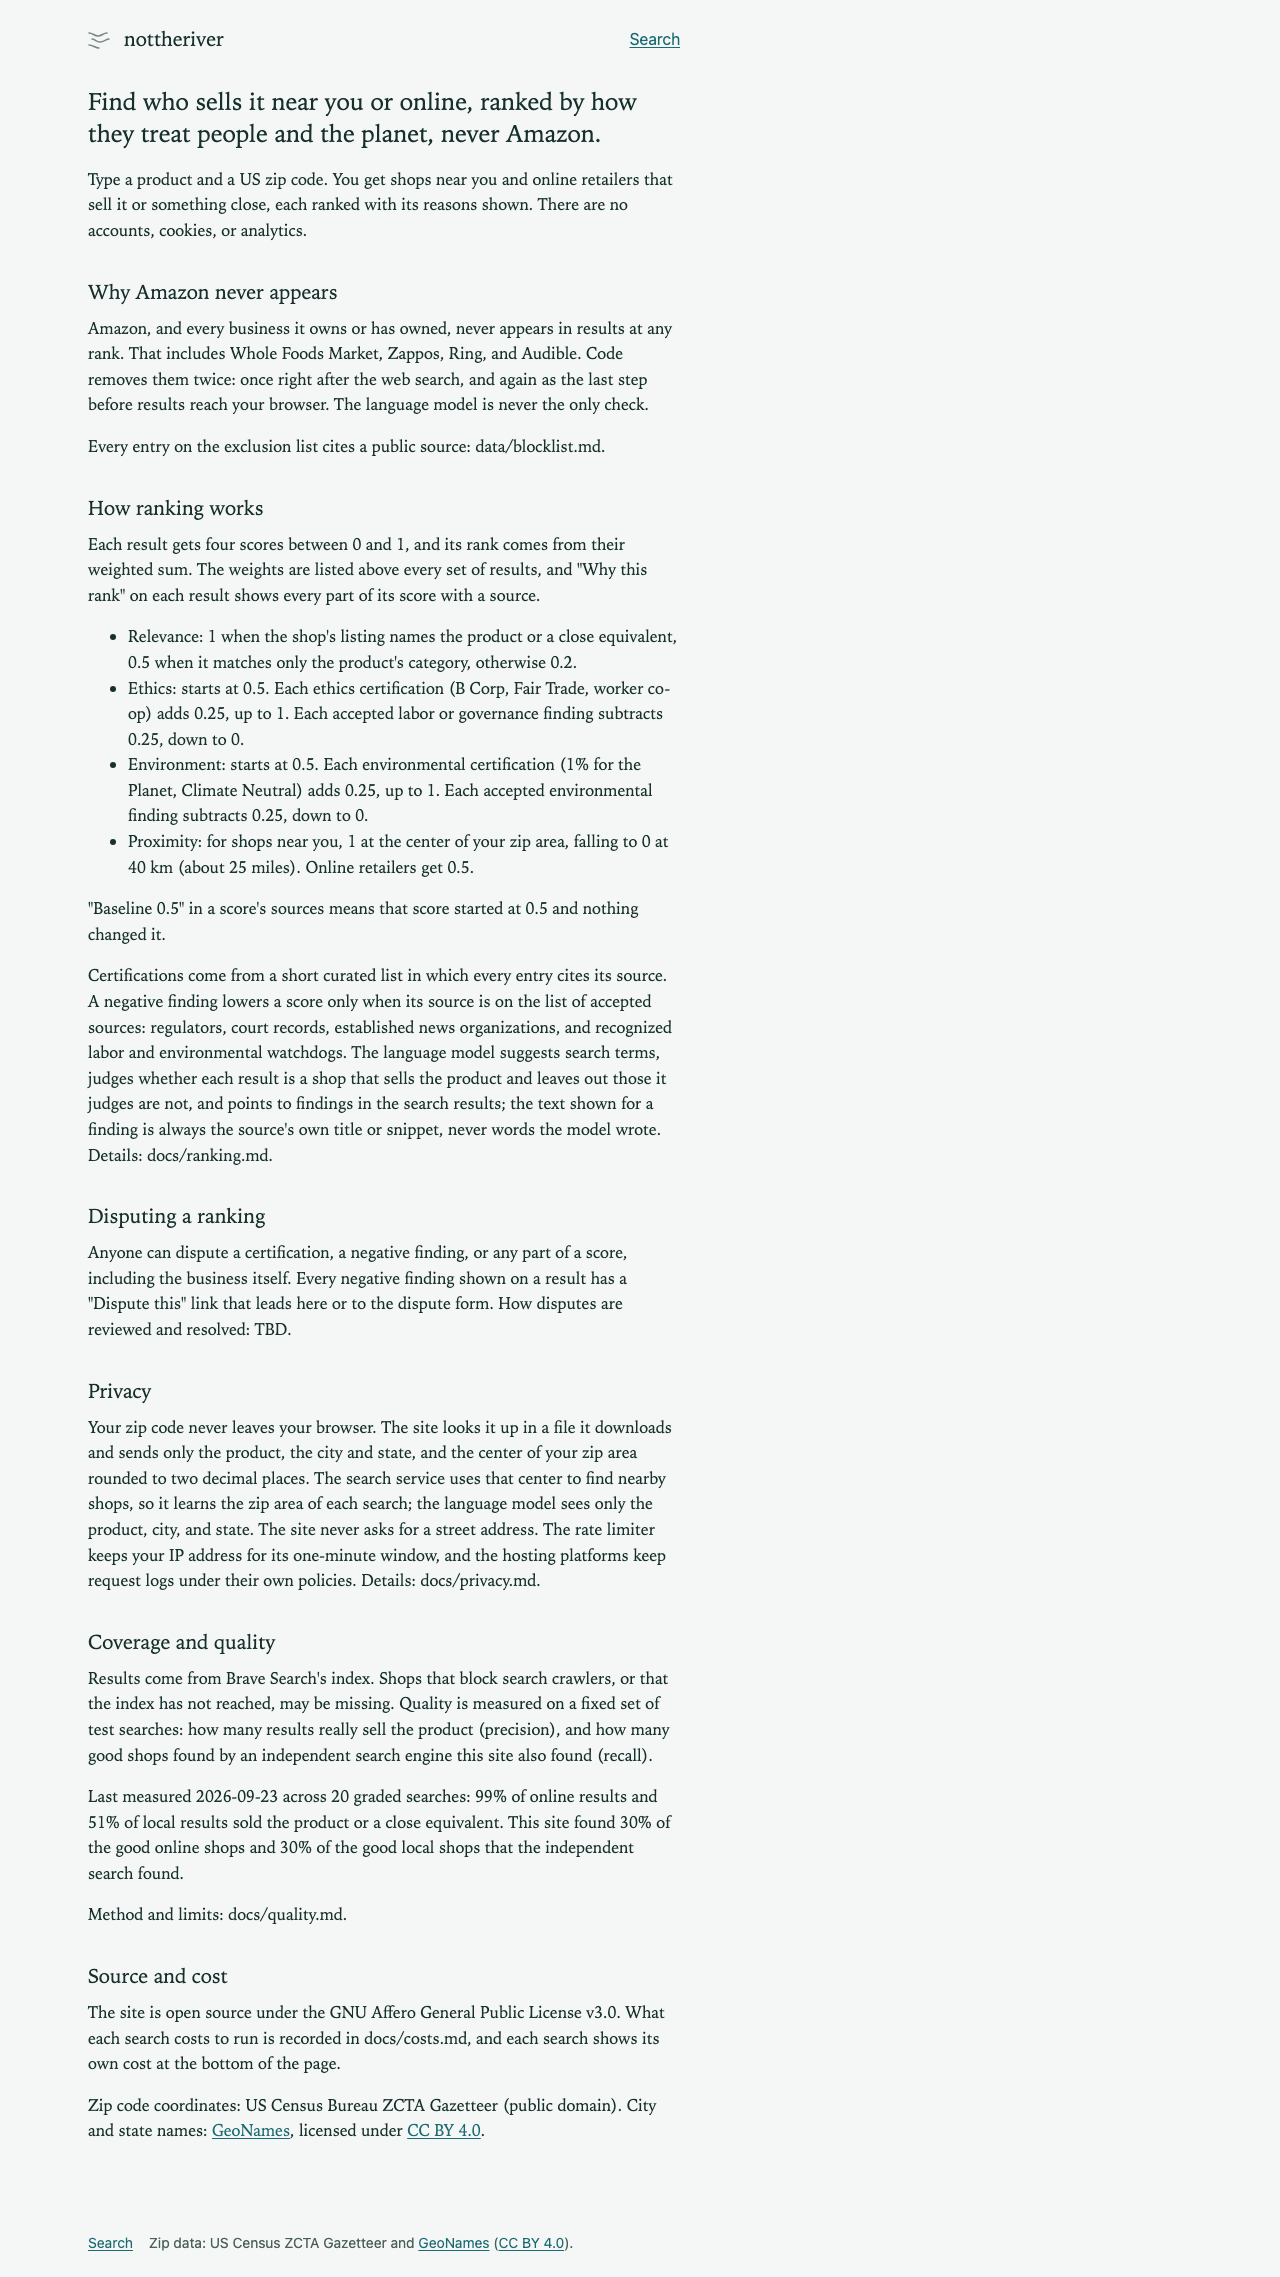
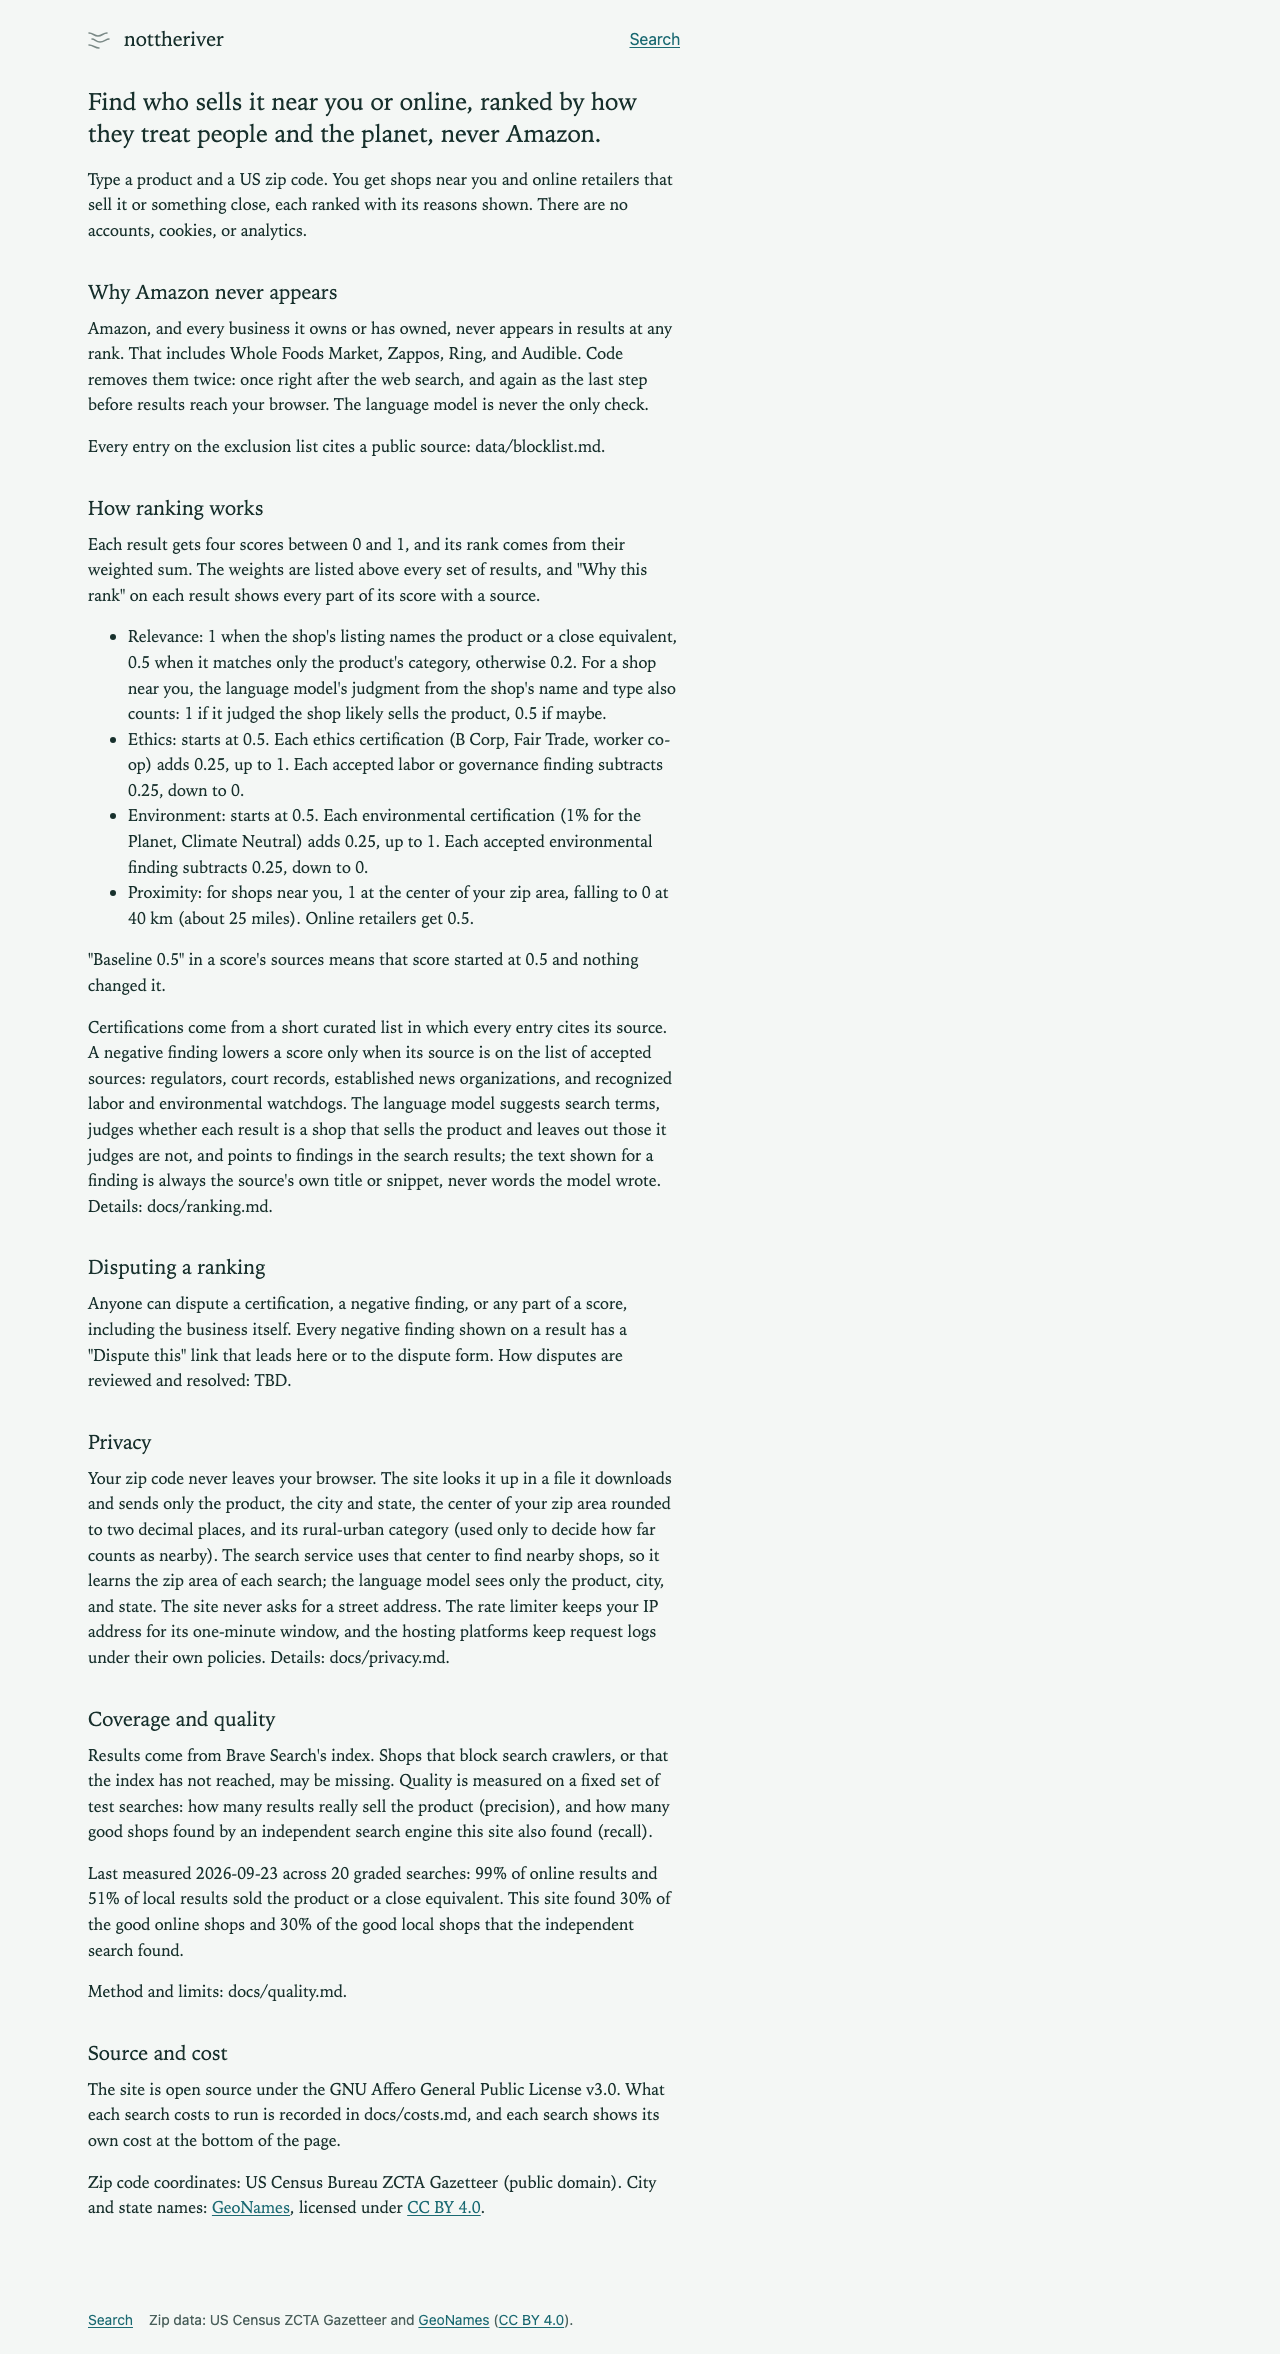
feat(ranking): rank nearby shops by the classifier's sells judgment
A place listing's text is a name and a store-type word, so local relevance
sat at 0.2 for almost every shop and ranking was nearly pure distance. A
local shop now gets relevance 1.0 when the classifier judged it sells the
product and 0.5 for maybe (the text rule still wins when higher). On the
graded searches, "yes" rows were good 80% of the time and "maybe" 40%;
re-ranking the graded nearby shops raised good shops in each top 3 from
23 to 29 and lowered bad ones from 20 to 15.

Claude-Session: https://claude.ai/code/session_01B4KcTXaMeePDhRGcdgbBh5

Changed region(s): [[0.0625, 0.0312, 0.5312, 0.9666], [0.5, 0.0, 0.5312, 0.0312]]

diff --git a/proxy/ranking/score.ts b/proxy/ranking/score.ts
@@ -1,5 +1,5 @@
 import type {
-  Candidate, CertKind, Certification, ComponentName, Normalized, ScoreComponent, Signal, SignalKind, SourceRef,
+  Candidate, CertKind, Certification, Classification, ComponentName, Normalized, ScoreComponent, SellsProduct, Signal, SignalKind, SourceRef,
 } from '../src/contract';
 import { haversineKm, type LatLon } from './geo';
 import { WEIGHTS } from './weights';
@@ -25,7 +25,21 @@ function normalizeText(s: string): string {
   return s.normalize('NFKC').toLowerCase().replace(/[^\p{L}\p{N}]+/gu, ' ').trim();
 }
 
-export function relevance(c: Candidate, n: Normalized): { value: 1 | 0.5 | 0.2; matched: string; source: SourceRef } {
+const JUDGED: Partial<Record<SellsProduct, { value: 1 | 0.5; label: string }>> = {
+  yes: { value: 1, label: 'Model judgment: likely sells it' },
+  maybe: { value: 0.5, label: 'Model judgment: may sell it' },
+};
+
+// A place listing's text is a name and a store-type word, so the text rule leaves almost every
+// local store at 0.2; the classifier's yes/maybe separates them (80% vs 40% good in graded rows).
+export function relevance(c: Candidate, n: Normalized, sells?: SellsProduct | null): { value: 1 | 0.5 | 0.2; matched: string; source: SourceRef } {
+  const text = textRelevance(c, n);
+  const judged = c.kind === 'local' && sells ? JUDGED[sells] : undefined;
+  if (!judged || judged.value <= text.value) return text;
+  return { value: judged.value, matched: '', source: { label: judged.label, url: c.url } };
+}
+
+function textRelevance(c: Candidate, n: Normalized): { value: 1 | 0.5 | 0.2; matched: string; source: SourceRef } {
   // For places the snippet is Brave's store-type word plus any categories, so local relevance rests on those and the title.
   // Checked separately so a phrase cannot straddle the end of the title and the start of the snippet.
   const fields = [normalizeText(c.title), normalizeText(c.snippet)];
@@ -103,13 +117,14 @@ export interface ScoreInput {
   normalized: Normalized;
   origin: LatLon;
   siteUrl: string; // no trailing slash
+  classification?: Classification | null; // the model's judgment; null when it did not judge
 }
 
 export function scoreCandidate(
   input: ScoreInput, weights: Readonly<Record<ComponentName, number>> = WEIGHTS,
 ): { score: number; matched_product: string; distance_km: number | null; components: ScoreComponent[] } {
   const docUrl = `${input.siteUrl}/about.html#ranking`;
-  const rel = relevance(input.candidate, input.normalized);
+  const rel = relevance(input.candidate, input.normalized, input.classification?.sells_product);
   const prox = proximity(input.candidate, input.origin, docUrl);
   const parts: [ComponentName, { value: number; sources: SourceRef[] }][] = [
     ['relevance', { value: rel.value, sources: [rel.source] }],

diff --git a/proxy/test/pipeline.test.ts b/proxy/test/pipeline.test.ts
@@ -162,6 +162,19 @@ describe('runSearch over the fixtures', () => {
     );
   });
 
+  it("ranks a nearby store the model judged to sell the product above one it only thought might", () => {
+    const store = (name: string, sells: 'yes' | 'maybe'): EnrichedRow => ({
+      ...row(candidate({ kind: 'local', name, title: name, snippet: 'shop', domain: `${name.toLowerCase()}.example`, url: `https://${name.toLowerCase()}.example/`, address: '1 Main St', lat: REQ.lat + 0.01, lon: REQ.lon, place_id: name })),
+      classification: { site_type: 'retailer', sells_product: sells },
+    });
+    // The "maybe" store is closer, so without the judgment it would rank first.
+    const maybe = store('Maybe', 'maybe');
+    const closer = { ...maybe, candidate: { ...maybe.candidate, lat: REQ.lat } };
+    const res = finalizeResponse(scoreAll([closer, store('Yes', 'yes')], NORMALIZED, REQ, ENV.SITE_URL), NORMALIZED, REQ, NO_USAGE);
+    expect(res.local.map((r) => r.retailer.name)).toEqual(['Yes', 'Maybe']);
+    expect(res.local[0]!.components.find((c) => c.name === 'relevance')).toMatchObject({ value: 1, sources: [{ label: 'Model judgment: likely sells it' }] });
+  });
+
   describe('distance tiers', () => {
     // 1 degree of latitude is about 69 mi, so these sit roughly 5, 15, 45 and 150 mi north of REQ.
     const at = (name: string, miles: number) => row(candidate({

diff --git a/about.html b/about.html
@@ -32,7 +32,7 @@
 <h2 id="ranking">How ranking works</h2>
 <p>Each result gets four scores between 0 and 1, and its rank comes from their weighted sum. The weights are listed above every set of results, and "Why this rank" on each result shows every part of its score with a source.</p>
 <ul>
-<li>Relevance: 1 when the shop's listing names the product or a close equivalent, 0.5 when it matches only the product's category, otherwise 0.2.</li>
+<li>Relevance: 1 when the shop's listing names the product or a close equivalent, 0.5 when it matches only the product's category, otherwise 0.2. For a shop near you, the language model's judgment from the shop's name and type also counts: 1 if it judged the shop likely sells the product, 0.5 if maybe.</li>
 <li>Ethics: starts at 0.5. Each ethics certification (B Corp, Fair Trade, worker co-op) adds 0.25, up to 1. Each accepted labor or governance finding subtracts 0.25, down to 0.</li>
 <li>Environment: starts at 0.5. Each environmental certification (1% for the Planet, Climate Neutral) adds 0.25, up to 1. Each accepted environmental finding subtracts 0.25, down to 0.</li>
 <li>Proximity: for shops near you, 1 at the center of your zip area, falling to 0 at 40 km (about 25 miles). Online retailers get 0.5.</li>

diff --git a/proxy/test/score.test.ts b/proxy/test/score.test.ts
@@ -104,6 +104,21 @@ describe('relevance', () => {
     expect(relevance(local('Corner Store', 'Hardware Store'), normalized).value).toBe(0.2);
     expect(relevance(local('Skillet Shack', 'Cast Iron Skillet Shop'), normalized).value).toBe(1);
   });
+
+  it("lifts a local store by the model's judgment that it sells the product, citing the store", () => {
+    const store = local('Corner Store', 'Hardware Store');
+    expect(relevance(store, normalized, 'yes')).toEqual({
+      value: 1, matched: '', source: { label: 'Model judgment: likely sells it', url: store.url },
+    });
+    expect(relevance(store, normalized, 'maybe')).toMatchObject({ value: 0.5, matched: '', source: { label: 'Model judgment: may sell it' } });
+    expect(relevance(store, normalized, null).value).toBe(0.2);
+    expect(relevance(store, normalized).value).toBe(0.2);
+  });
+
+  it('keeps the text match when it scores higher than the judgment, and ignores judgments for online retailers', () => {
+    expect(relevance(local('Skillet Shack', 'Cast Iron Skillet Shop'), normalized, 'maybe')).toMatchObject({ value: 1, matched: 'cast iron skillet' });
+    expect(relevance(online('Garden hoses'), normalized, 'yes').value).toBe(0.2);
+  });
 });
 
 const dimensions = [

diff --git a/proxy/src/pipeline.ts b/proxy/src/pipeline.ts
@@ -183,11 +183,11 @@ function scoreRow(id: string, input: ScoreInput): ScoredRow {
 export function scoreAll(rows: EnrichedRow[], n: Normalized, req: SearchRequest, siteUrl: string): ScoredRow[] {
   const origin = { lat: req.lat, lon: req.lon };
   let localIndex = 0;
-  return rows.map(({ candidate, certifications: certs, signals }) => {
+  return rows.map(({ candidate, certifications: certs, signals, classification }) => {
     const id = candidate.kind === 'online'
       ? `online:${candidate.domain}`
       : `local:${candidate.place_id ?? candidate.domain}:${localIndex++}`;
-    return scoreRow(id, { candidate, certifications: certs, signals, normalized: n, origin, siteUrl });
+    return scoreRow(id, { candidate, certifications: certs, signals, normalized: n, origin, siteUrl, classification });
   });
 }
 

diff --git a/docs/ranking.md b/docs/ranking.md
@@ -35,12 +35,12 @@ Every component is between 0 and 1, and the weights sum to 1, so the score is to
 
 | Component | Rule | Source shown |
 |---|---|---|
-| Relevance | 1.0 if the result's title or snippet contains the product name or one of the similar products the model suggested; 0.5 if it contains only the product category; otherwise 0.2 | The result's own page |
+| Relevance | 1.0 if the result's title or snippet contains the product name or one of the similar products the model suggested; 0.5 if it contains only the product category; otherwise 0.2. A local shop also gets 1.0 when the classifier judged that it sells the product ("yes") and 0.5 when it judged "maybe", if that is higher | The result's own page, labeled "Model judgment" when the judgment set the value |
 | Ethics | See [Baseline](#baseline). +0.25 per ethics certification kind, capped at 1.0; then −0.25 per accepted labor or governance finding, floored at 0 | This page, plus each counted certification and finding |
 | Environment | See [Baseline](#baseline). +0.25 per environmental certification kind, capped at 1.0; then −0.25 per accepted environmental finding, floored at 0 | This page, plus each counted certification and finding |
 | Proximity | See [Proximity](#proximity) | This page |
 
-Relevance is a plain substring match on lowercased text with punctuation turned into spaces, so a short product name can match inside a longer word ("pan" in "Japan"). For a local shop the snippet is Brave's store-type word (such as "hardware") plus any categories, so most local shops score 0.5 or 0.2; a shop scores 1.0 only when its name or the snippet names the product. Both limits are listed in [debt.md](debt.md).
+Relevance is a plain substring match on lowercased text with punctuation turned into spaces, so a short product name can match inside a longer word ("pan" in "Japan"). For a local shop the snippet is Brave's store-type word (such as "hardware") plus any categories, so the text rule leaves most local shops at 0.5 or 0.2; the classifier's judgment is what separates them. On the graded searches of 2026-09-24, local shops the classifier called "yes" were good 80% of the time (53 of 66) and "maybe" 40% (58 of 146); re-ranking the graded nearby shops this way raised good shops in each search's top 3 from 23 to 29 and lowered bad ones from 20 to 15. The judgment comes from a shop's name and store type only, so it is a likelihood, not a stock check. Both limits of the text rule are listed in [debt.md](debt.md).
 
 ### Baseline
 
